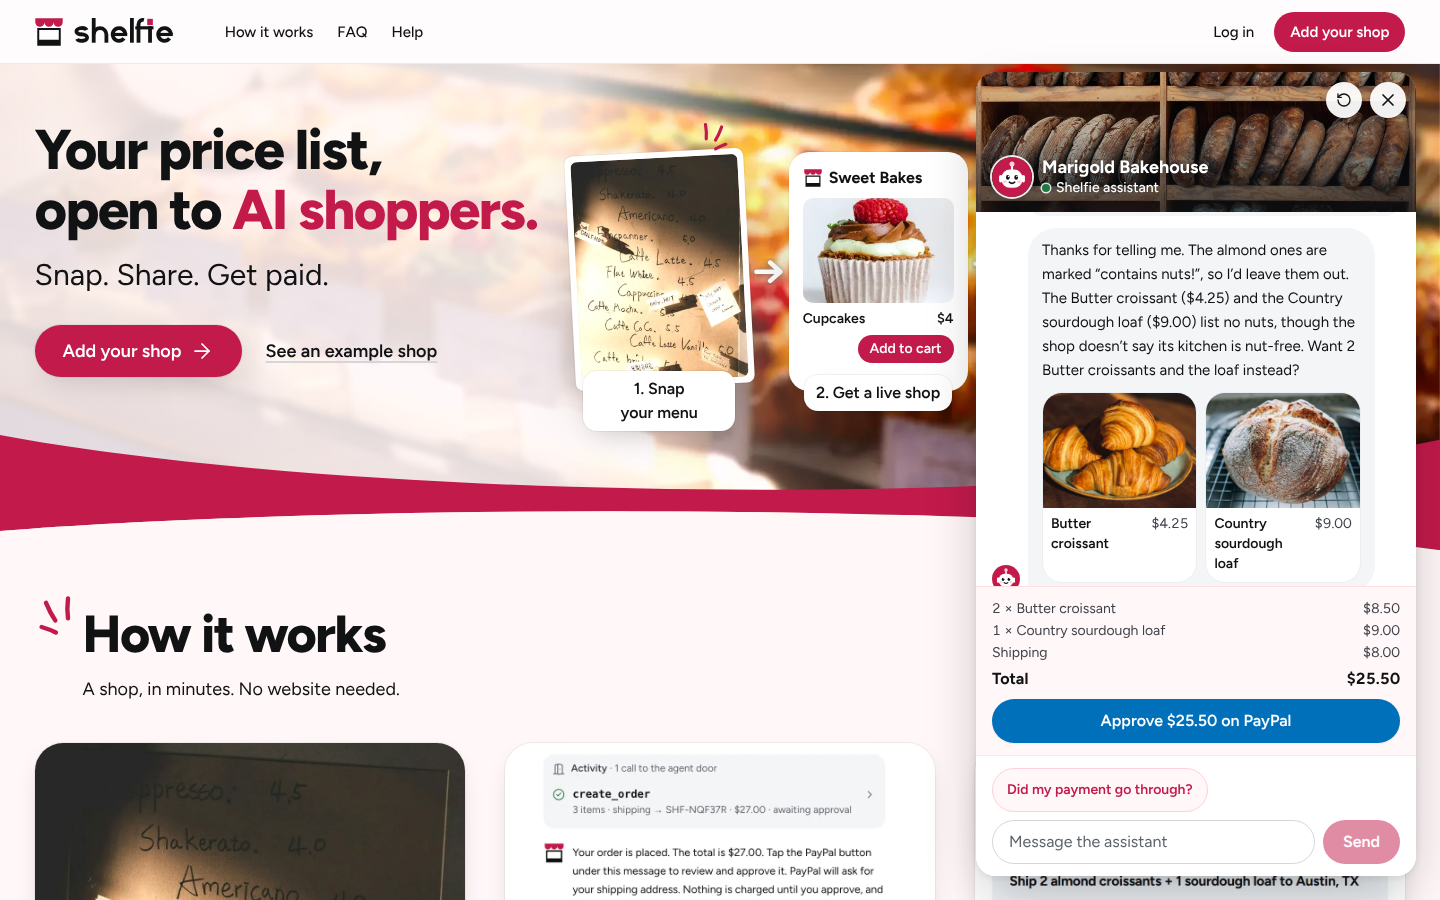
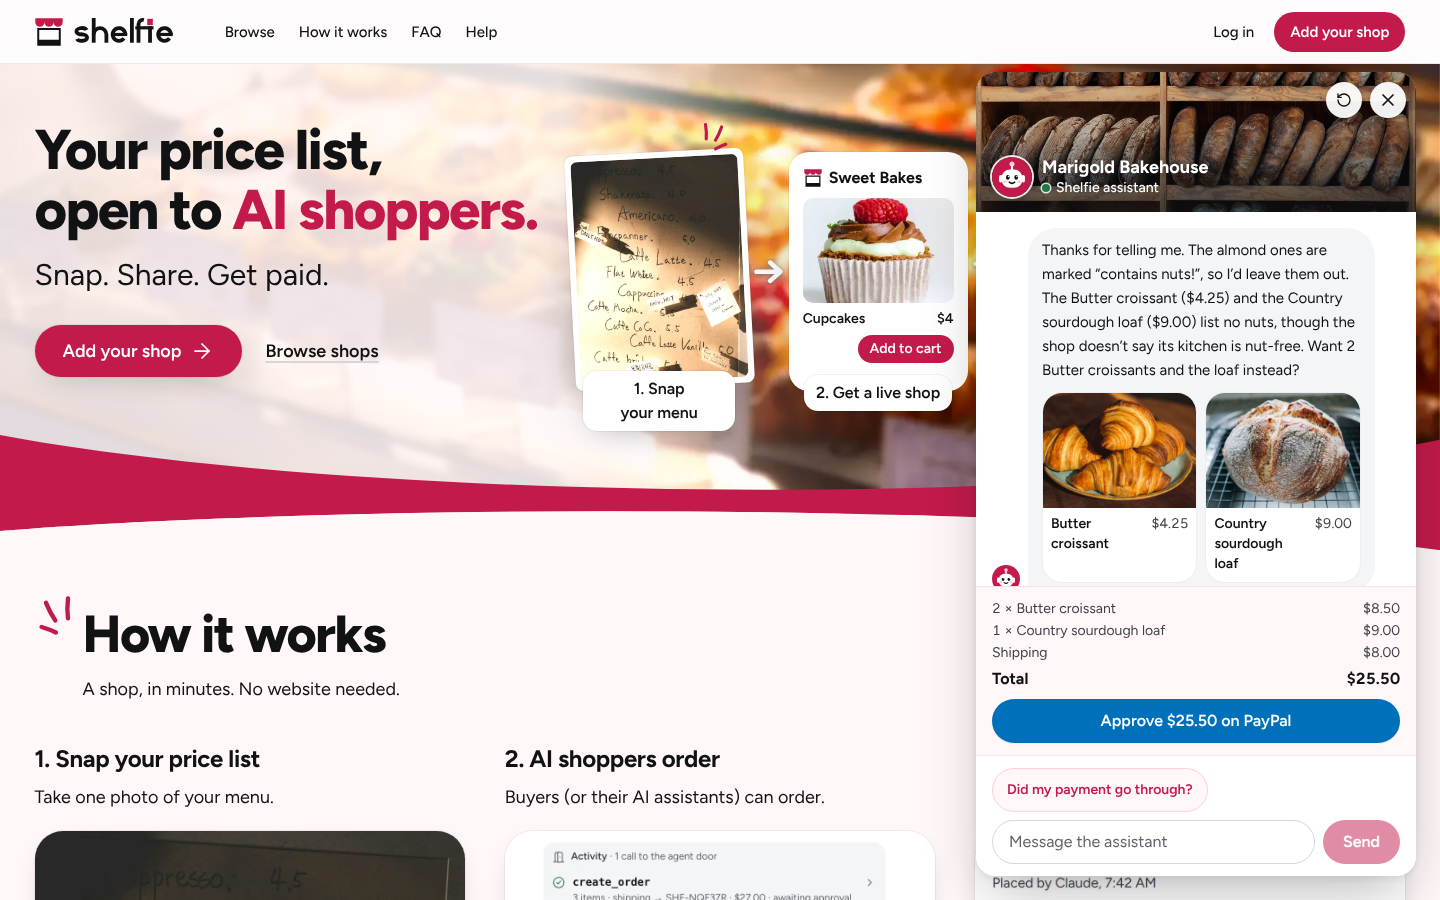
Run 12 previews (footer, activity, how it works, hero) and PROGRESS line

diff --git a/e2e/home-chat.spec.ts b/e2e/home-chat.spec.ts
@@ -484,11 +484,18 @@ for (const [label, viewport] of [['1440', DESKTOP], ['390', PHONE]] as const) {
       await expect(log.locator('[data-tool="create_order"]')).toHaveText(`Placed your order · $${usd(total)} · waiting for your PayPal approval`);
       await expect(log.locator('[data-step][data-state="done"]')).toHaveCount(await log.locator('[data-step]').count());
       expect(await log.textContent()).not.toMatch(/create_order|list_products|\d ms|agent door/);
+      if (SHOTS) {
+        // The friendly steps and the pinned PayPal button together, mid-order.
+        await page.mouse.move(0, 0);
+        await log.locator('[data-tool="create_order"]').scrollIntoViewIfNeeded();
+        await page.waitForTimeout(400);
+        await page.screenshot({ path: `${SHOTS}/activity-${label}.png` });
+      }
       const details = log.getByRole('group', { name: 'Activity', exact: true }).last().getByRole('button', { name: 'Details' });
       await expect(details).toHaveAttribute('aria-expanded', 'false');
       await details.click();
       await expect(log.locator('summary', { hasText: 'create_order' })).toBeVisible();
-      if (SHOTS) await page.screenshot({ path: `${SHOTS}/chat-b-${label}-details.png` });
+      if (SHOTS) await page.screenshot({ path: `${SHOTS}/activity-${label}-details.png` });
       await details.click();
       await expect(log.locator('summary', { hasText: 'create_order' })).toHaveCount(0);
       // The summary sits right above the message box.

diff --git a/docs/PROGRESS.md b/docs/PROGRESS.md
@@ -466,3 +466,4 @@ Sessions 1–3 ended within minutes (each ended its turn after launching jobs, w
 - **Needs from human** (unchanged): make the repo public, the optional Render deploy, upload `video/out/shelfie-demo.mp4` to YouTube, fill in the `docs/SUBMISSION.md` links, submit on Devpost.
 - Run 9: the hero gets the owner's `Add your shop →` pill (to /signup) and `See an example shop`, stacked full width on phones; screenshots in docs/preview/hero-cta-*.png; unit, typecheck, lint, build and landing/other-pages e2e pass.
 - Run 11: mockup B is the home chat (cover-photo header, item cards from `list_products`, pinned order above the composer, 440 px × viewport−96 panel / 90% phone sheet; `?chatui` and A/C removed); `npm run seed` publishes six live shops (Marigold, Tía Lupe's, Ravi's, Little Ember Coffee, Sunny Side Lemonade, Fern & Wick) and a new /browse page lists every orderable shop (search, chips, Browse in header/footer/hero); public pages no longer say demo/example shop; real sandbox order on Little Ember Coffee paid (docs/judge/evidence/new-shop-order.md); unit, typecheck, lint, build and 213 e2e pass.
+- Run 12 (branch `run-12-footer`, not merged; owner to review): closing band loses its `Add your shop` button and its cupcake photo fades into a regrouped charcoal footer (logo + blurb; Shelfie / For AI assistants / The project; sandbox line + Sound switch) on /, /browse, /help, /terms, /privacy (no photo band on /browse: its line pitches to sellers); the buyer chat shows plain steps ("Placed your order · $25.50 · waiting for your PayPal approval") with the raw calls behind a Details button; How it works puts each heading above its picture; the phone hero lists four captioned steps. Previews in docs/preview/footer-*, activity-*, how-it-works-*, hero-* (axe: 0 violations); unit (2367), typecheck, lint, build and 185 e2e (landing, other-pages, sounds, home-chat, assistant-layout, shop, start) pass. Follow-ups: the How it works step 2 picture is still a screenshot of the old raw Activity panel; at 360 px the header overflows by 16 px (pre-existing, outside this job).
